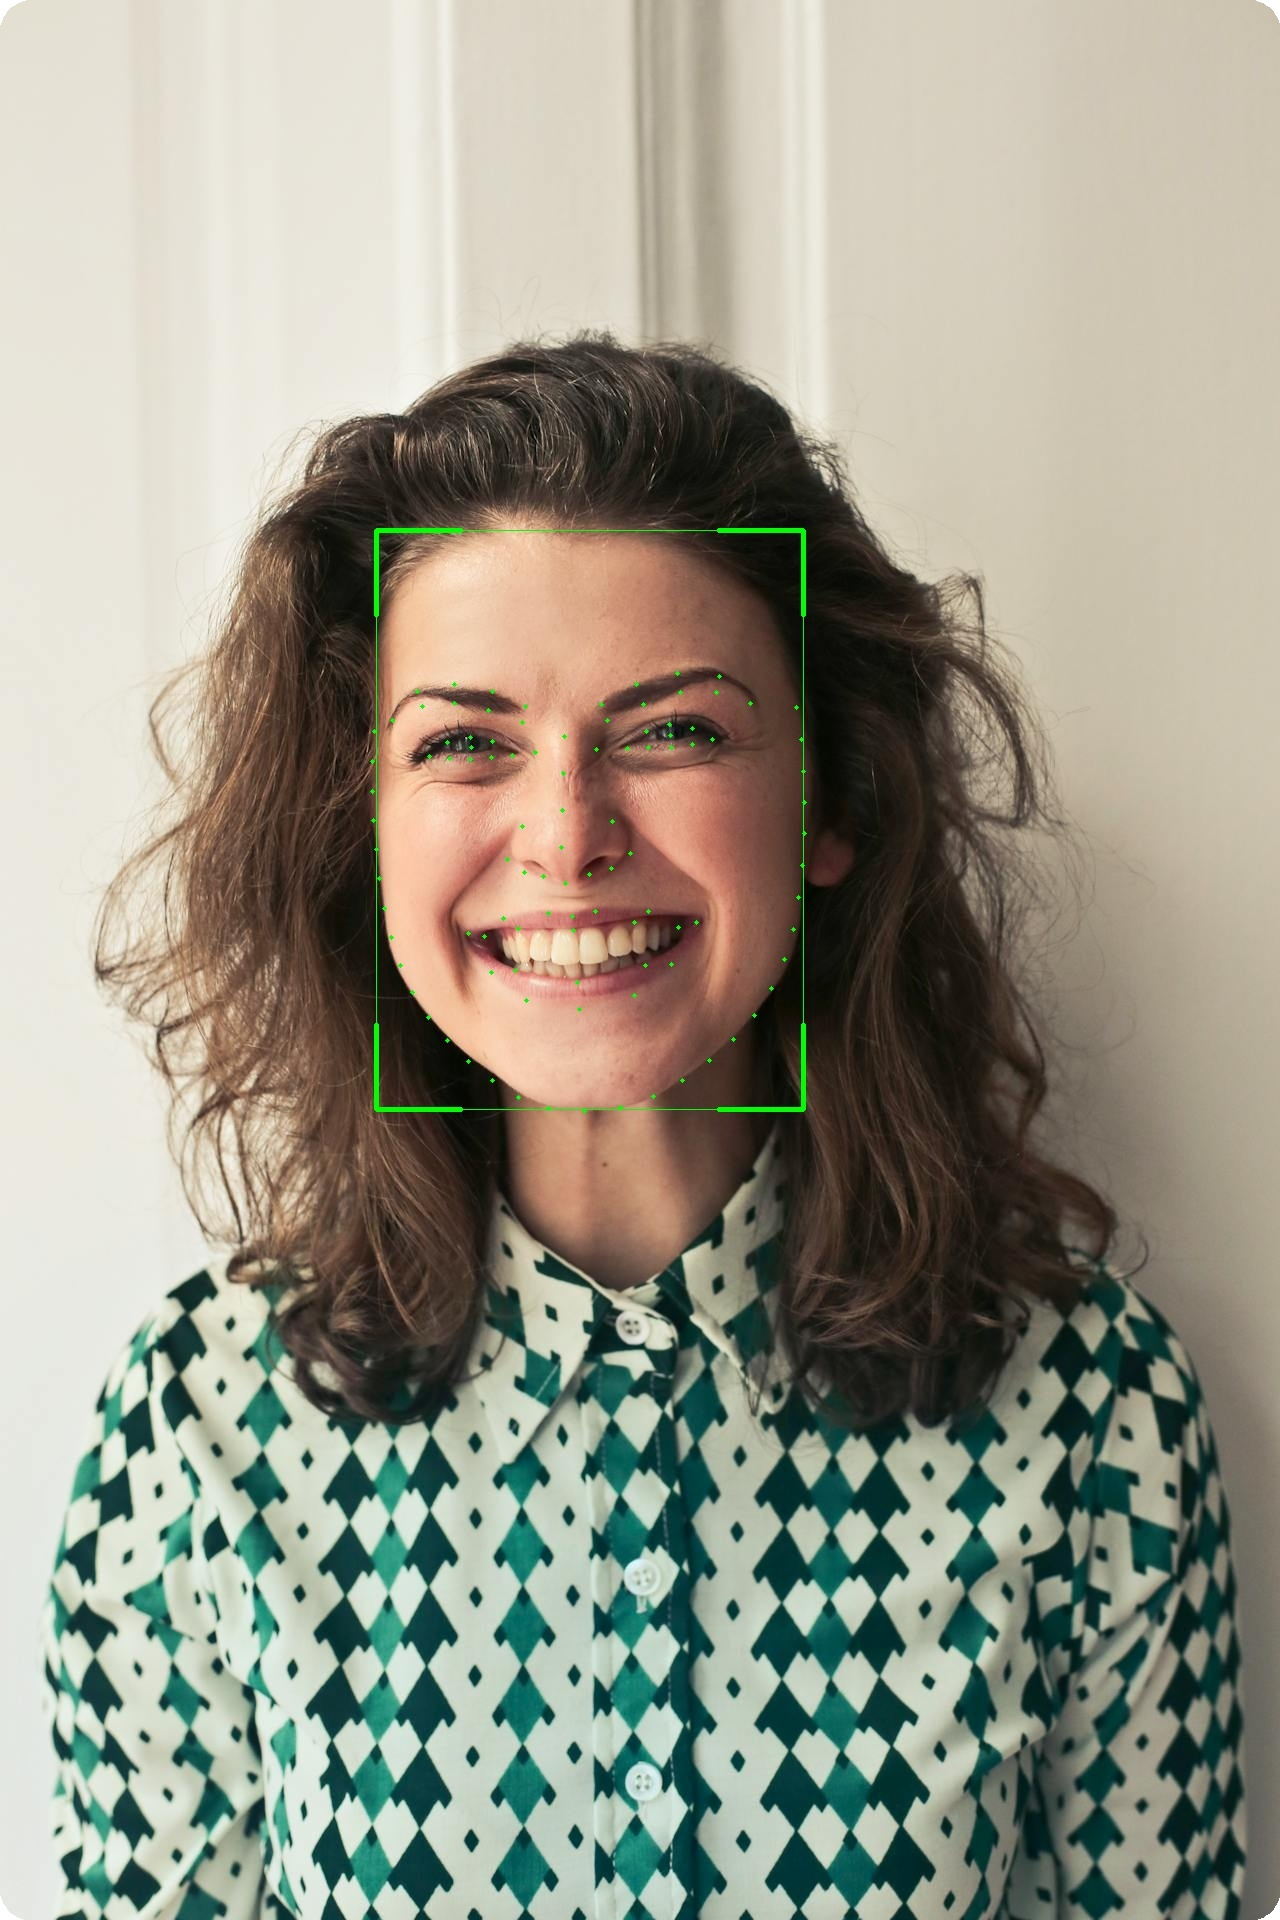
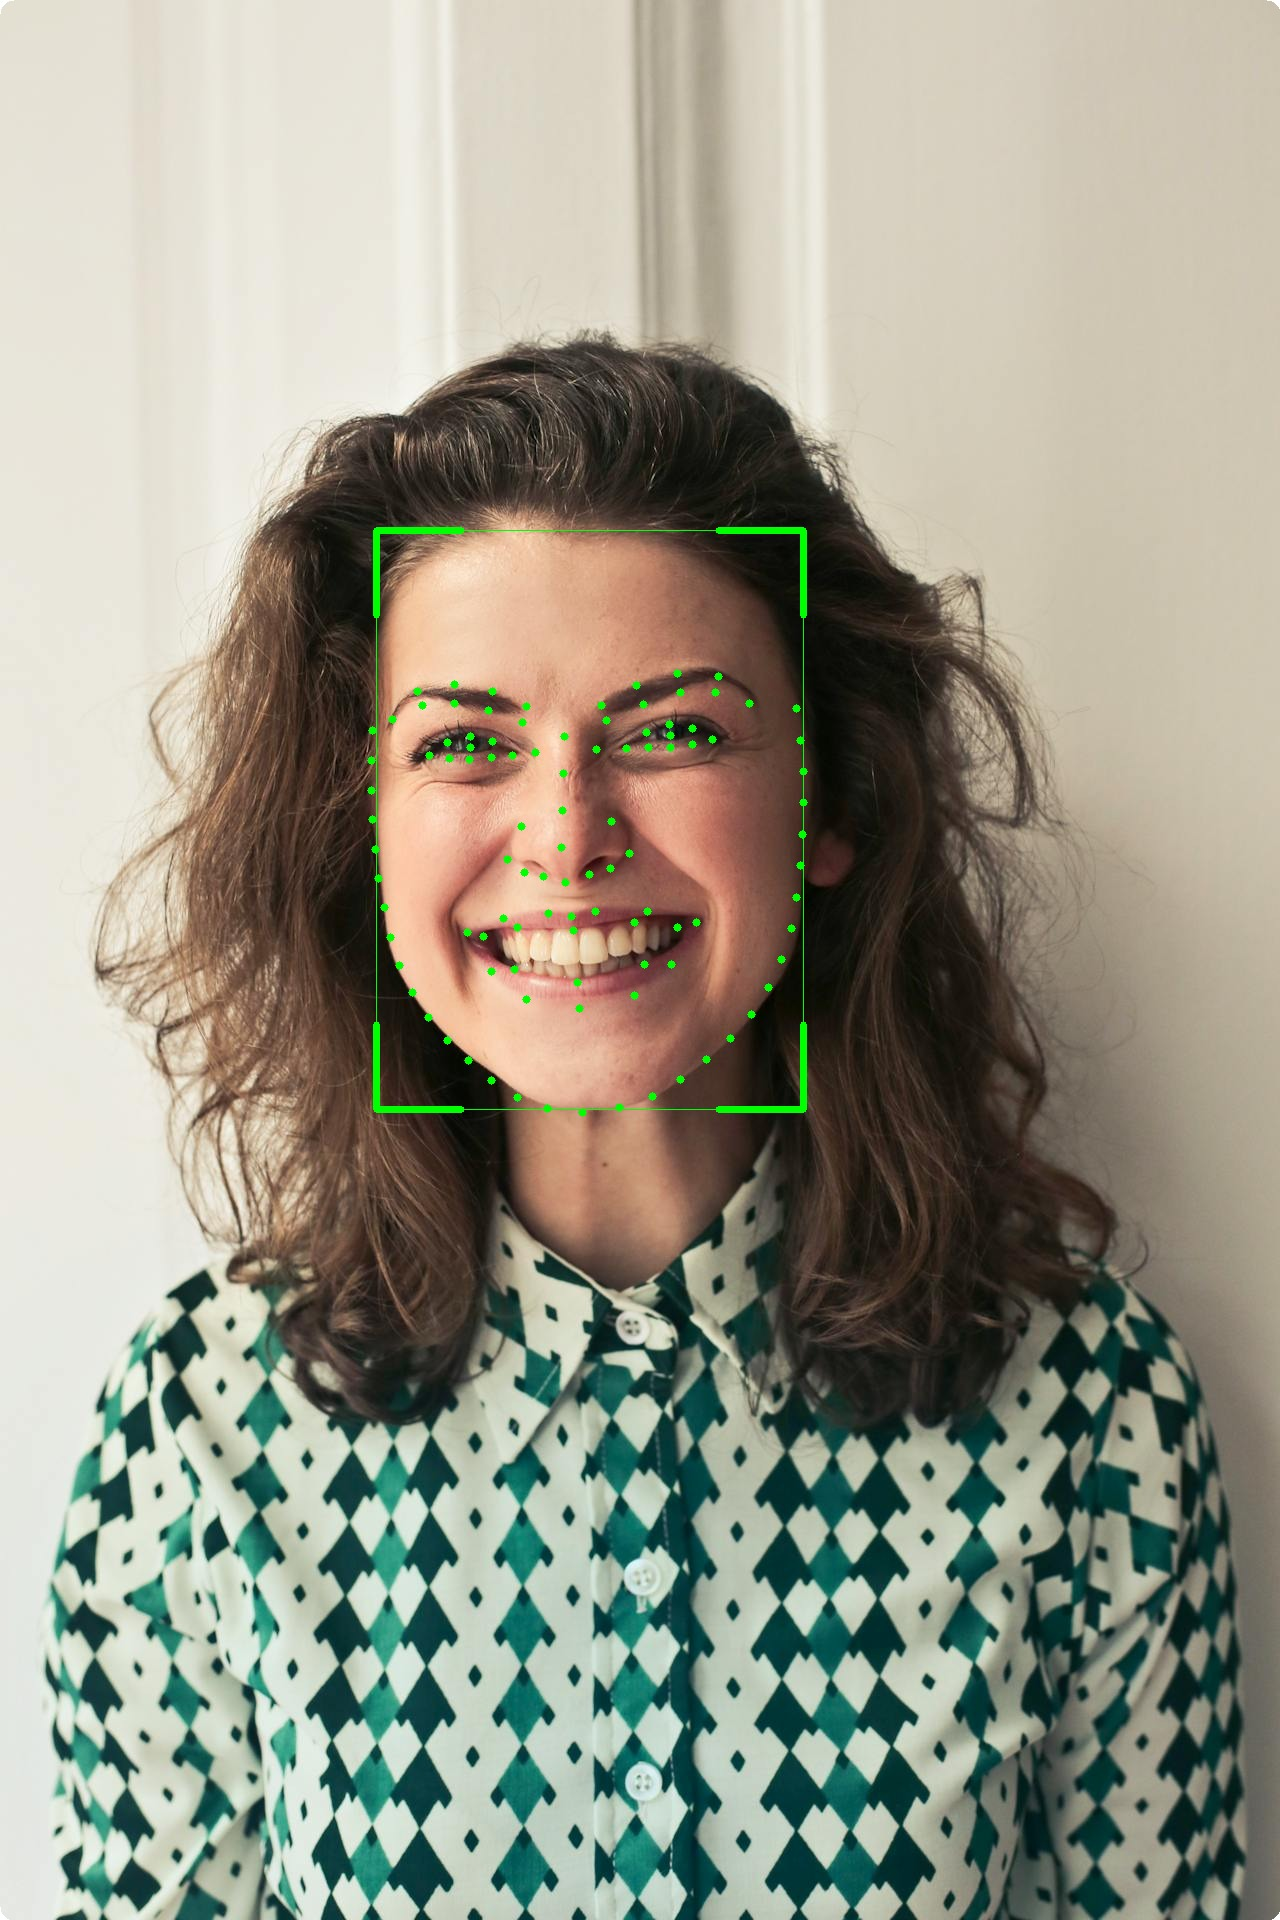
chore: Clean up redundant files and update README

diff --git a/README.md b/README.md
@@ -9,7 +9,6 @@
 [![PyPI Downloads](https://static.pepy.tech/personalized-badge/uniface?period=total&units=INTERNATIONAL_SYSTEM&left_color=GRAY&right_color=BLUE&left_text=Downloads)](https://pepy.tech/projects/uniface)
 [![UniFace Documentation](https://img.shields.io/badge/Docs-UniFace-blue.svg)](https://yakhyo.github.io/uniface/)
 [![Kaggle Badge](https://img.shields.io/badge/Notebooks-Kaggle?label=Kaggle&color=blue)](https://www.kaggle.com/yakhyokhuja/code)
-[![Discord](https://img.shields.io/badge/Discord-Join%20Server-5865F2?logo=discord&logoColor=white)](https://discord.gg/wdzrjr7R5j)
 
 </div>
 
@@ -51,13 +50,14 @@
   </tr>
   <tr>
     <td align="center"><b>Head Pose Estimation</b><br><img src="https://raw.githubusercontent.com/yakhyo/uniface/main/assets/demos/headpose.jpg" width="100%"></td>
-    <td align="center"><b>Age &amp; Gender</b><br><img src="https://raw.githubusercontent.com/yakhyo/uniface/main/assets/demos/age_gender.jpg" width="100%"></td>
+    <td align="center"><b>Age & Gender</b><br><img src="https://raw.githubusercontent.com/yakhyo/uniface/main/assets/demos/age_gender.jpg" width="100%"></td>
   </tr>
   <tr>
     <td align="center" colspan="2"><b>Face Verification</b><br><img src="https://raw.githubusercontent.com/yakhyo/uniface/main/assets/demos/verification.jpg" width="80%"></td>
   </tr>
   <tr>
-    <td align="center" colspan="2"><b>106-Point Landmarks</b><br><img src="https://raw.githubusercontent.com/yakhyo/uniface/main/assets/demos/landmarks.jpg" width="36%"></td>
+    <td align="center"><b>106-Point Landmarks</b><br><img src="https://raw.githubusercontent.com/yakhyo/uniface/main/assets/demos/landmarks.jpg" width="70%"></td>
+    <td align="center"><b>98-Point Landmarks (PIPNet)</b><br><img src="https://raw.githubusercontent.com/yakhyo/uniface/main/assets/demos/landmarks_pipnet.jpg" width="70%"></td>
   </tr>
   <tr>
     <td align="center" colspan="2"><b>Face Parsing</b><br><img src="https://raw.githubusercontent.com/yakhyo/uniface/main/assets/demos/parsing.jpg" width="80%"></td>
@@ -105,6 +105,7 @@ pip install faiss-cpu   # or faiss-gpu for CUDA
 ```
 
 **Optional dependencies**
+
 - Emotion model uses TorchScript and requires `torch`:
   `pip install torch` (choose the correct build for your OS/CUDA)
 - YOLOv5-Face and YOLOv8-Face support faster NMS with `torchvision`:
@@ -152,11 +153,6 @@ for face in faces:
     print(f"BBox: {face.bbox}")
     print(f"Landmarks: {face.landmarks.shape}")
 ```
-
-<div align="center">
-    <img src="https://raw.githubusercontent.com/yakhyo/uniface/main/assets/test_result.png" width="90%">
-    <p>Face Detection Model Output</p>
-</div>
 
 ---
 
@@ -221,21 +217,21 @@ cv2.imwrite("green_screen.jpg", result)
 
 ## Jupyter Notebooks
 
-| Example | Colab | Description |
-|---------|:-----:|-------------|
-| [01_face_detection.ipynb](examples/01_face_detection.ipynb) | [![Open In Colab](https://colab.research.google.com/assets/colab-badge.svg)](https://colab.research.google.com/github/yakhyo/uniface/blob/main/examples/01_face_detection.ipynb) | Face detection and landmarks |
-| [02_face_alignment.ipynb](examples/02_face_alignment.ipynb) | [![Open In Colab](https://colab.research.google.com/assets/colab-badge.svg)](https://colab.research.google.com/github/yakhyo/uniface/blob/main/examples/02_face_alignment.ipynb) | Face alignment for recognition |
-| [03_face_verification.ipynb](examples/03_face_verification.ipynb) | [![Open In Colab](https://colab.research.google.com/assets/colab-badge.svg)](https://colab.research.google.com/github/yakhyo/uniface/blob/main/examples/03_face_verification.ipynb) | Compare faces for identity |
-| [04_face_search.ipynb](examples/04_face_search.ipynb) | [![Open In Colab](https://colab.research.google.com/assets/colab-badge.svg)](https://colab.research.google.com/github/yakhyo/uniface/blob/main/examples/04_face_search.ipynb) | Find a person in group photos |
-| [05_face_analyzer.ipynb](examples/05_face_analyzer.ipynb) | [![Open In Colab](https://colab.research.google.com/assets/colab-badge.svg)](https://colab.research.google.com/github/yakhyo/uniface/blob/main/examples/05_face_analyzer.ipynb) | Unified face analysis |
-| [06_face_parsing.ipynb](examples/06_face_parsing.ipynb) | [![Open In Colab](https://colab.research.google.com/assets/colab-badge.svg)](https://colab.research.google.com/github/yakhyo/uniface/blob/main/examples/06_face_parsing.ipynb) | Semantic face segmentation |
-| [07_face_anonymization.ipynb](examples/07_face_anonymization.ipynb) | [![Open In Colab](https://colab.research.google.com/assets/colab-badge.svg)](https://colab.research.google.com/github/yakhyo/uniface/blob/main/examples/07_face_anonymization.ipynb) | Privacy-preserving blur |
-| [08_gaze_estimation.ipynb](examples/08_gaze_estimation.ipynb) | [![Open In Colab](https://colab.research.google.com/assets/colab-badge.svg)](https://colab.research.google.com/github/yakhyo/uniface/blob/main/examples/08_gaze_estimation.ipynb) | Gaze direction estimation |
-| [09_face_segmentation.ipynb](examples/09_face_segmentation.ipynb) | [![Open In Colab](https://colab.research.google.com/assets/colab-badge.svg)](https://colab.research.google.com/github/yakhyo/uniface/blob/main/examples/09_face_segmentation.ipynb) | Face segmentation with XSeg |
-| [10_face_vector_store.ipynb](examples/10_face_vector_store.ipynb) | [![Open In Colab](https://colab.research.google.com/assets/colab-badge.svg)](https://colab.research.google.com/github/yakhyo/uniface/blob/main/examples/10_face_vector_store.ipynb) | FAISS-backed face database |
+| Example                                                              |                                                                                       Colab                                                                                       | Description                             |
+| -------------------------------------------------------------------- | :-------------------------------------------------------------------------------------------------------------------------------------------------------------------------------: | --------------------------------------- |
+| [01_face_detection.ipynb](examples/01_face_detection.ipynb)             |    [![Open In Colab](https://colab.research.google.com/assets/colab-badge.svg)](https://colab.research.google.com/github/yakhyo/uniface/blob/main/examples/01_face_detection.ipynb)    | Face detection and landmarks            |
+| [02_face_alignment.ipynb](examples/02_face_alignment.ipynb)             |    [![Open In Colab](https://colab.research.google.com/assets/colab-badge.svg)](https://colab.research.google.com/github/yakhyo/uniface/blob/main/examples/02_face_alignment.ipynb)    | Face alignment for recognition          |
+| [03_face_verification.ipynb](examples/03_face_verification.ipynb)       |  [![Open In Colab](https://colab.research.google.com/assets/colab-badge.svg)](https://colab.research.google.com/github/yakhyo/uniface/blob/main/examples/03_face_verification.ipynb)  | Compare faces for identity              |
+| [04_face_search.ipynb](examples/04_face_search.ipynb)                   |     [![Open In Colab](https://colab.research.google.com/assets/colab-badge.svg)](https://colab.research.google.com/github/yakhyo/uniface/blob/main/examples/04_face_search.ipynb)     | Find a person in group photos           |
+| [05_face_analyzer.ipynb](examples/05_face_analyzer.ipynb)               |    [![Open In Colab](https://colab.research.google.com/assets/colab-badge.svg)](https://colab.research.google.com/github/yakhyo/uniface/blob/main/examples/05_face_analyzer.ipynb)    | Unified face analysis                   |
+| [06_face_parsing.ipynb](examples/06_face_parsing.ipynb)                 |     [![Open In Colab](https://colab.research.google.com/assets/colab-badge.svg)](https://colab.research.google.com/github/yakhyo/uniface/blob/main/examples/06_face_parsing.ipynb)     | Semantic face segmentation              |
+| [07_face_anonymization.ipynb](examples/07_face_anonymization.ipynb)     |  [![Open In Colab](https://colab.research.google.com/assets/colab-badge.svg)](https://colab.research.google.com/github/yakhyo/uniface/blob/main/examples/07_face_anonymization.ipynb)  | Privacy-preserving blur                 |
+| [08_gaze_estimation.ipynb](examples/08_gaze_estimation.ipynb)           |   [![Open In Colab](https://colab.research.google.com/assets/colab-badge.svg)](https://colab.research.google.com/github/yakhyo/uniface/blob/main/examples/08_gaze_estimation.ipynb)   | Gaze direction estimation               |
+| [09_face_segmentation.ipynb](examples/09_face_segmentation.ipynb)       |  [![Open In Colab](https://colab.research.google.com/assets/colab-badge.svg)](https://colab.research.google.com/github/yakhyo/uniface/blob/main/examples/09_face_segmentation.ipynb)  | Face segmentation with XSeg             |
+| [10_face_vector_store.ipynb](examples/10_face_vector_store.ipynb)       |  [![Open In Colab](https://colab.research.google.com/assets/colab-badge.svg)](https://colab.research.google.com/github/yakhyo/uniface/blob/main/examples/10_face_vector_store.ipynb)  | FAISS-backed face database              |
 | [11_head_pose_estimation.ipynb](examples/11_head_pose_estimation.ipynb) | [![Open In Colab](https://colab.research.google.com/assets/colab-badge.svg)](https://colab.research.google.com/github/yakhyo/uniface/blob/main/examples/11_head_pose_estimation.ipynb) | Head pose estimation (pitch, yaw, roll) |
-| [12_face_recognition.ipynb](examples/12_face_recognition.ipynb) | [![Open In Colab](https://colab.research.google.com/assets/colab-badge.svg)](https://colab.research.google.com/github/yakhyo/uniface/blob/main/examples/12_face_recognition.ipynb) | Standalone face recognition pipeline |
-| [13_portrait_matting.ipynb](examples/13_portrait_matting.ipynb) | [![Open In Colab](https://colab.research.google.com/assets/colab-badge.svg)](https://colab.research.google.com/github/yakhyo/uniface/blob/main/examples/13_portrait_matting.ipynb) | Portrait matting with MODNet |
+| [12_face_recognition.ipynb](examples/12_face_recognition.ipynb)         |   [![Open In Colab](https://colab.research.google.com/assets/colab-badge.svg)](https://colab.research.google.com/github/yakhyo/uniface/blob/main/examples/12_face_recognition.ipynb)   | Standalone face recognition pipeline    |
+| [13_portrait_matting.ipynb](examples/13_portrait_matting.ipynb)         |   [![Open In Colab](https://colab.research.google.com/assets/colab-badge.svg)](https://colab.research.google.com/github/yakhyo/uniface/blob/main/examples/13_portrait_matting.ipynb)   | Portrait matting with MODNet            |
 
 ---
 
@@ -243,14 +239,14 @@ cv2.imwrite("green_screen.jpg", result)
 
 Full documentation: https://yakhyo.github.io/uniface/
 
-| Resource | Description |
-|----------|-------------|
-| [Quickstart](https://yakhyo.github.io/uniface/quickstart/) | Get up and running in 5 minutes |
-| [Model Zoo](https://yakhyo.github.io/uniface/models/) | All models, benchmarks, and selection guide |
-| [API Reference](https://yakhyo.github.io/uniface/modules/detection/) | Detailed module documentation |
-| [Tutorials](https://yakhyo.github.io/uniface/recipes/image-pipeline/) | Step-by-step workflow examples |
-| [Guides](https://yakhyo.github.io/uniface/concepts/overview/) | Architecture and design principles |
-| [Datasets](https://yakhyo.github.io/uniface/datasets/) | Training data and evaluation benchmarks |
+| Resource                                                           | Description                                 |
+| ------------------------------------------------------------------ | ------------------------------------------- |
+| [Quickstart](https://yakhyo.github.io/uniface/quickstart/)            | Get up and running in 5 minutes             |
+| [Model Zoo](https://yakhyo.github.io/uniface/models/)                 | All models, benchmarks, and selection guide |
+| [API Reference](https://yakhyo.github.io/uniface/modules/detection/)  | Detailed module documentation               |
+| [Tutorials](https://yakhyo.github.io/uniface/recipes/image-pipeline/) | Step-by-step workflow examples              |
+| [Guides](https://yakhyo.github.io/uniface/concepts/overview/)         | Architecture and design principles          |
+| [Datasets](https://yakhyo.github.io/uniface/datasets/)                | Training data and evaluation benchmarks     |
 
 ---
 
@@ -270,18 +266,18 @@ https://yakhyo.github.io/uniface/concepts/execution-providers/
 
 ## Datasets
 
-| Task | Training Dataset | Models |
-|------|-----------------|--------|
-| Detection | WIDER FACE | RetinaFace, SCRFD, YOLOv5-Face, YOLOv8-Face |
-| Recognition | MS1MV2 | MobileFace, SphereFace |
-| Recognition | WebFace600K | ArcFace |
-| Recognition | WebFace4M / 12M | AdaFace |
-| Recognition | MS1MV2 | EdgeFace |
-| Landmarks | WFLW, 300W+CelebA | PIPNet (98 / 68 pts) |
-| Gaze | Gaze360 | MobileGaze |
-| Head Pose | 300W-LP | HeadPose (ResNet, MobileNet) |
-| Parsing | CelebAMask-HQ | BiSeNet |
-| Attributes | CelebA, FairFace, AffectNet | AgeGender, FairFace, Emotion |
+| Task        | Training Dataset            | Models                                      |
+| ----------- | --------------------------- | ------------------------------------------- |
+| Detection   | WIDER FACE                  | RetinaFace, SCRFD, YOLOv5-Face, YOLOv8-Face |
+| Recognition | MS1MV2                      | MobileFace, SphereFace                      |
+| Recognition | WebFace600K                 | ArcFace                                     |
+| Recognition | WebFace4M / 12M             | AdaFace                                     |
+| Recognition | MS1MV2                      | EdgeFace                                    |
+| Landmarks   | WFLW, 300W+CelebA           | PIPNet (98 / 68 pts)                        |
+| Gaze        | Gaze360                     | MobileGaze                                  |
+| Head Pose   | 300W-LP                     | HeadPose (ResNet, MobileNet)                |
+| Parsing     | CelebAMask-HQ               | BiSeNet                                     |
+| Attributes  | CelebA, FairFace, AffectNet | AgeGender, FairFace, Emotion                |
 
 > See [Datasets documentation](https://yakhyo.github.io/uniface/datasets/) for download links, benchmarks, and details.
 
@@ -293,6 +289,7 @@ UniFace is MIT-licensed, but several pretrained models carry their own licenses.
 Review: https://yakhyo.github.io/uniface/license-attribution/
 
 Notable examples:
+
 - YOLOv5-Face and YOLOv8-Face weights are GPL-3.0
 - FairFace weights are CC BY 4.0
 
@@ -302,23 +299,23 @@ If you plan commercial use, verify model license compatibility.
 
 ## References
 
-| Feature | Repository | Training | Description |
-|---------|------------|:--------:|-------------|
-| Detection | [retinaface-pytorch](https://github.com/yakhyo/retinaface-pytorch) | ✓ | RetinaFace PyTorch Training & Export |
-| Detection | [yolov5-face-onnx-inference](https://github.com/yakhyo/yolov5-face-onnx-inference) | - | YOLOv5-Face ONNX Inference |
-| Detection | [yolov8-face-onnx-inference](https://github.com/yakhyo/yolov8-face-onnx-inference) | - | YOLOv8-Face ONNX Inference |
-| Tracking | [bytetrack-tracker](https://github.com/yakhyo/bytetrack-tracker) | - | BYTETracker Multi-Object Tracking |
-| Recognition | [face-recognition](https://github.com/yakhyo/face-recognition) | ✓ | MobileFace, SphereFace Training |
-| Recognition | [edgeface-onnx](https://github.com/yakhyo/edgeface-onnx) | - | EdgeFace ONNX Inference |
-| Landmarks | [pipnet-onnx](https://github.com/yakhyo/pipnet-onnx) | - | PIPNet 98 / 68-point ONNX Inference |
-| Parsing | [face-parsing](https://github.com/yakhyo/face-parsing) | ✓ | BiSeNet Face Parsing |
-| Parsing | [face-segmentation](https://github.com/yakhyo/face-segmentation) | - | XSeg Face Segmentation |
-| Gaze | [gaze-estimation](https://github.com/yakhyo/gaze-estimation) | ✓ | MobileGaze Training |
-| Head Pose | [head-pose-estimation](https://github.com/yakhyo/head-pose-estimation) | ✓ | Head Pose Training (6DRepNet-style) |
-| Matting | [modnet](https://github.com/yakhyo/modnet) | - | MODNet Portrait Matting |
-| Anti-Spoofing | [face-anti-spoofing](https://github.com/yakhyo/face-anti-spoofing) | - | MiniFASNet Inference |
-| Quality | [face-image-quality-assessment](https://github.com/yakhyo/face-image-quality-assessment) | - | eDifFIQA ONNX Inference |
-| Attributes | [fairface-onnx](https://github.com/yakhyo/fairface-onnx) | - | FairFace ONNX Inference |
+| Feature       | Repository                                                                            | Training | Description                          |
+| ------------- | ------------------------------------------------------------------------------------- | :------: | ------------------------------------ |
+| Detection     | [retinaface-pytorch](https://github.com/yakhyo/retinaface-pytorch)                       |    ✓    | RetinaFace PyTorch Training & Export |
+| Detection     | [yolov5-face-onnx-inference](https://github.com/yakhyo/yolov5-face-onnx-inference)       |    -    | YOLOv5-Face ONNX Inference           |
+| Detection     | [yolov8-face-onnx-inference](https://github.com/yakhyo/yolov8-face-onnx-inference)       |    -    | YOLOv8-Face ONNX Inference           |
+| Tracking      | [bytetrack-tracker](https://github.com/yakhyo/bytetrack-tracker)                         |    -    | BYTETracker Multi-Object Tracking    |
+| Recognition   | [face-recognition](https://github.com/yakhyo/face-recognition)                           |    ✓    | MobileFace, SphereFace Training      |
+| Recognition   | [edgeface-onnx](https://github.com/yakhyo/edgeface-onnx)                                 |    -    | EdgeFace ONNX Inference              |
+| Landmarks     | [pipnet-onnx](https://github.com/yakhyo/pipnet-onnx)                                     |    -    | PIPNet 98 / 68-point ONNX Inference  |
+| Parsing       | [face-parsing](https://github.com/yakhyo/face-parsing)                                   |    ✓    | BiSeNet Face Parsing                 |
+| Parsing       | [face-segmentation](https://github.com/yakhyo/face-segmentation)                         |    -    | XSeg Face Segmentation               |
+| Gaze          | [gaze-estimation](https://github.com/yakhyo/gaze-estimation)                             |    ✓    | MobileGaze Training                  |
+| Head Pose     | [head-pose-estimation](https://github.com/yakhyo/head-pose-estimation)                   |    ✓    | Head Pose Training (6DRepNet-style)  |
+| Matting       | [modnet](https://github.com/yakhyo/modnet)                                               |    -    | MODNet Portrait Matting              |
+| Anti-Spoofing | [face-anti-spoofing](https://github.com/yakhyo/face-anti-spoofing)                       |    -    | MiniFASNet Inference                 |
+| Quality       | [face-image-quality-assessment](https://github.com/yakhyo/face-image-quality-assessment) |    -    | eDifFIQA ONNX Inference              |
+| Attributes    | [fairface-onnx](https://github.com/yakhyo/fairface-onnx)                                 |    -    | FairFace ONNX Inference              |
 
 *SCRFD and ArcFace models are from [InsightFace](https://github.com/deepinsight/insightface).
 
@@ -333,6 +330,7 @@ Contributions are welcome. Please see [CONTRIBUTING.md](CONTRIBUTING.md).
 If you find this project useful, consider giving it a ⭐ on GitHub — it helps others discover it!
 
 Questions or feedback:
+
 - Discord: https://discord.gg/wdzrjr7R5j
 - GitHub Issues: https://github.com/yakhyo/uniface/issues
 - DeepWiki Q&A: https://deepwiki.com/yakhyo/uniface

diff --git a/docs/modules/landmarks.md b/docs/modules/landmarks.md
@@ -3,8 +3,9 @@
 Facial landmark detection provides precise localization of facial features.
 
 <figure markdown="span">
-  ![106-Point Landmarks](https://raw.githubusercontent.com/yakhyo/uniface/main/assets/demos/landmarks.jpg){ width="50%" }
-  <figcaption>106-point facial landmark localization</figcaption>
+  ![106-Point Landmarks](https://raw.githubusercontent.com/yakhyo/uniface/main/assets/demos/landmarks.jpg){ width="40%" }
+  ![98-Point Landmarks (PIPNet)](https://raw.githubusercontent.com/yakhyo/uniface/main/assets/demos/landmarks_pipnet.jpg){ width="40%" }
+  <figcaption>106-point (left) and PIPNet 98-point (right) facial landmark localization</figcaption>
 </figure>
 
 ---